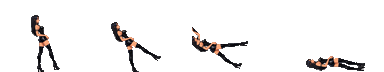
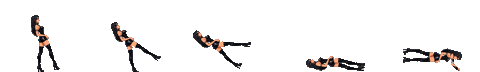
Girls: fall without the arm sticking up; own elbow-drop pose (flat on her front, elbow into the floor)

Changed region(s): [[0.375, 0.3889, 0.9688, 1.0], [0.2188, 0.3056, 0.4375, 1.0], [0.0625, 0.1944, 0.1562, 1.0]]

diff --git a/Tools/make_girl_frames.py b/Tools/make_girl_frames.py
@@ -154,10 +154,12 @@ def main():
     sheet("jump", [g.pose(bob=8, front=25, back=15, lean=-6), g.pose(arm=160, back=20), g.pose(front=45, back=35)])
     sheet("jump_kick", [stand, stand, g.pose(front=70, back=40, lean=10)])
     sheet("dive_kick", [stand, stand, stand, g.pose(front=105, back=30, lean=18)])
-    # [0] hurt, [1] staggering back (her elbow drop), [2] knocked off her feet, legs up, [3] flat on her back
+    # [0] hurt, [1] staggering back, [2] knocked off her feet, legs up, [3] flat on her back,
+    # [4] her elbow drop: flat on her front, the elbow driven into the floor
     sheet("hurt", [g.pose(whole=10, lean=8), g.pose(whole=28, lean=10, front=20),
-                   g.pose(whole=55, lean=12, front=30, back=15, arm=110, bob=-40),
-                   g.pose(whole=90, front=-22, back=4, lie=True)])
+                   g.pose(whole=48, lean=12, front=30, back=15, bob=-40),
+                   g.pose(whole=90, front=-22, back=4, lie=True),
+                   g.pose(whole=-90, front=-10, back=5, arm=90, lie=True)])
     sheet("sit", [g.pose(front=85, back=85, bob=36)])
 
 

diff --git a/Assets/Brawler/Art.cs b/Assets/Brawler/Art.cs
@@ -89,7 +89,7 @@ namespace Brawler
                 GetUp = jump[0], Crouch = jump[0], Air = jump[2],
                 WindUp = punch[0], Headbutt = jab[2], Throw = new[] { punch[0], punch[2] },
                 Bicycle = new[] { kick[3], jumpKick[2] },
-                ElbowRise = jump[1], ElbowDrop = hurt[1], Sit = S("sit")[0],
+                ElbowRise = jump[1], ElbowDrop = hurt[4], Sit = S("sit")[0],
             };
         }
 
